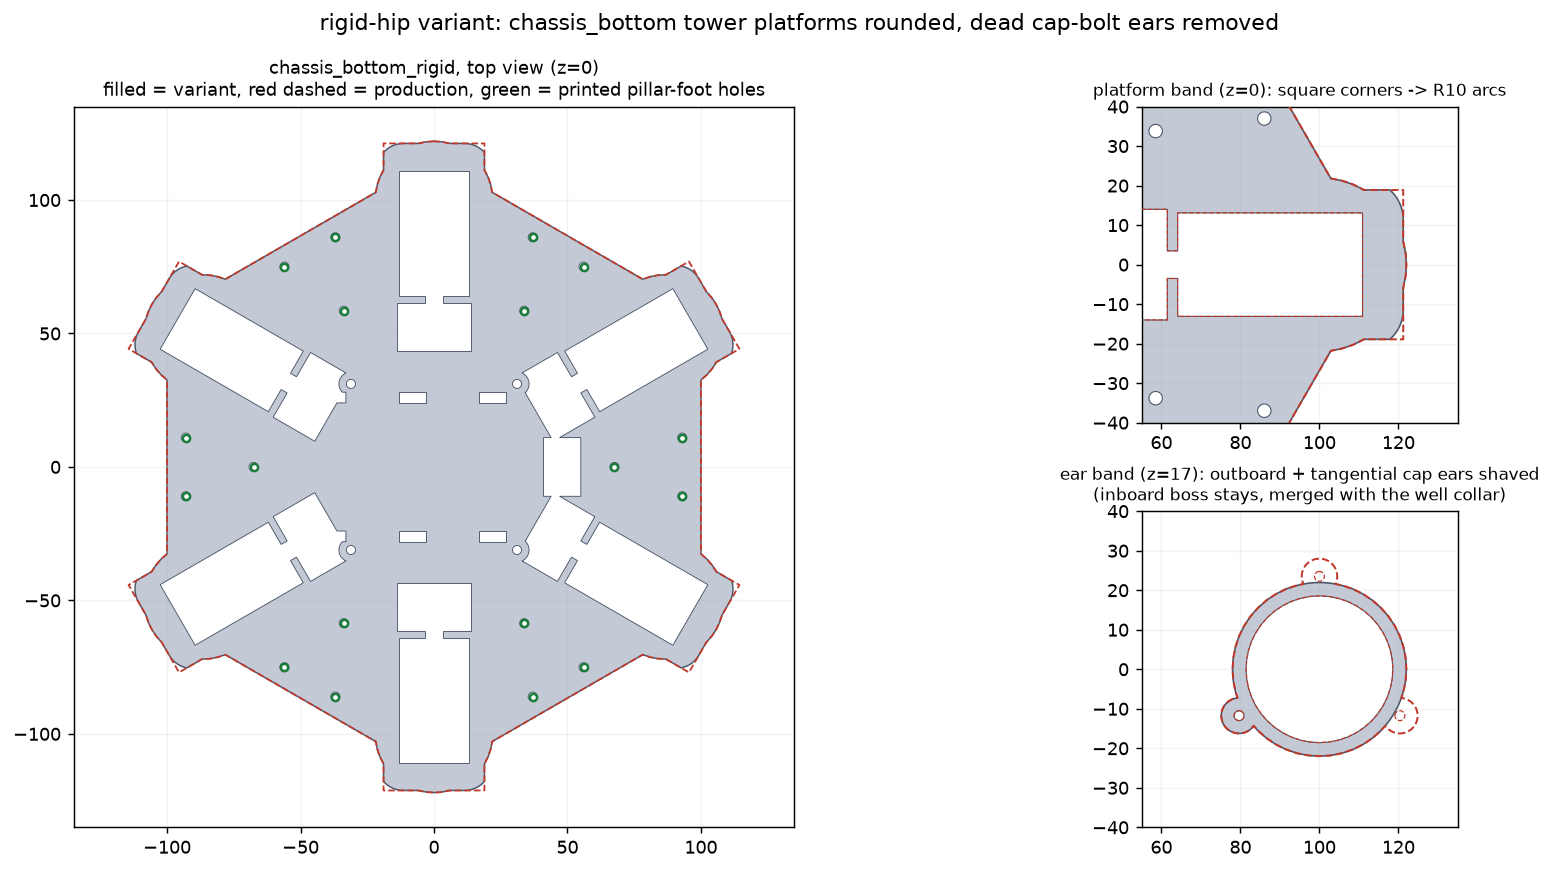
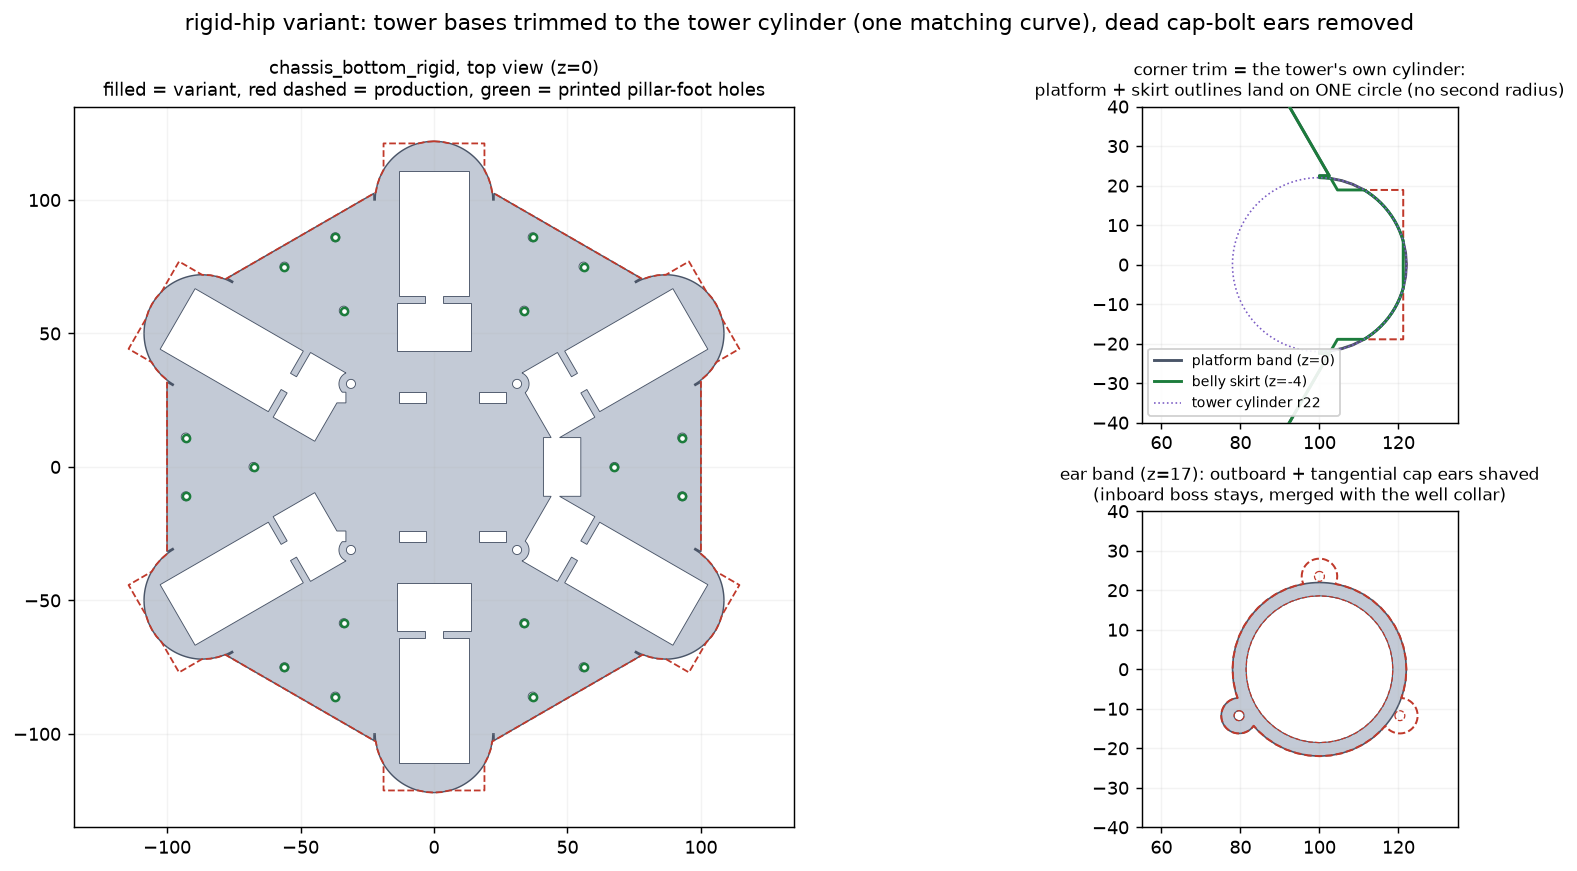
rigid-hip: trim tower platforms to the tower cylinder so all corner curves match
The R10 corner round stacked three different arcs at each corner
(platform arc, skirt chord, tower crown) -- rejected by the user. The
corners are now trimmed to the tower's own r22 cylinder, continuing the
bulge curve production already has through the platform band down the
belly skirt: one curve at every height.

diff --git a/hexapod_walker/prototype_sts3215/concepts/rigid_hip/make_rigid_hip_variant.py b/hexapod_walker/prototype_sts3215/concepts/rigid_hip/make_rigid_hip_variant.py
@@ -43,10 +43,12 @@ pair.  This variant closes the loop from the TOP:
     extended DOWN as a Phi 29 seat ring to the relocated bottom race
     (see BEARING COUNT).  All other interfaces untouched.
   * ``chassis_bottom_rigid`` (x1) -- the production chassis with the
-    six tower platforms' square corners rounded R 10 (user, Aug 24),
-    the dead cap-bolt ear lugs shaved (outboard + tangential; the
-    inboard one stays merged with the well collar), and the 18
-    pillar-foot holes printed in.  See the CHB_* constant block.
+    six tower platforms trimmed to the tower's own Phi 44 cylinder
+    (user, Aug 24: corners rounded; rev 2: all corner curves must
+    match -- so the tower curve is now the ONLY curve), the dead
+    cap-bolt ear lugs shaved (outboard + tangential; the inboard one
+    stays merged with the well collar), and the 18 pillar-foot holes
+    printed in.  See the CHB_* constant block.
     Every functional surface (pocket, seat, walls, trays, slots) is
     production geometry.
   * ``centre_wago_block`` -- the pillars claim the corner Wago trays,
@@ -238,20 +240,29 @@ HUB_RING_Z0 = hp.YAW_BEARING_LOWER_TOP_Z  # 7.5 -- relocated race TOP
 HUB_RING_Z1 = hp.YAW_BEARING_UPPER_TOP_Z + 1.5   # 16 -- well into the uflange
 
 # CHASSIS VARIANT (user, Aug 24: "round the corners on the chassis
-# bottom below where the bearings go").  Each production yaw tower
-# stands on a SQUARE outboard platform (leg-frame face x 121.2;
-# half-width 21.25 above the sheet, 18.9 for the z -6..-2 belly
-# skirt; top face z ~6.22) whose corners poke 8.4 mm diagonally past
-# the Phi 44 tower.  This variant rounds them with R 10 arcs tangent
-# to both faces -- the arc never comes closer than ~0.4 mm to the
-# tower wall across the whole cut band (checked numerically when
-# this was designed and re-asserted by check_chassis_variant), so
-# the bearing pocket, well walls and rim are untouched.  With the
+# bottom below where the bearings go"; rev 2 same day: "I don't like
+# the multiple curves here, they should all match").  Each production
+# yaw tower stands on a SQUARE outboard platform (leg-frame face
+# x 121.2; half-width 21.25 above the sheet, 18.9 for the z -6..-2
+# belly skirt; top face z 6.25) whose corners poked 8.4 mm diagonally
+# past the Phi 44 tower.  Rev 1 rounded them with a bolt-on R 10
+# corner radius, which stacked THREE different arcs at each corner
+# (platform R 10 arc, the shallower chord the same cylinder cut into
+# the narrower skirt, and the r 22 tower crown right above) -- the
+# user rejected the mismatch.  Now the corners are simply TRIMMED TO
+# THE TOWER'S OWN CYLINDER (r 22.02 about the yaw axis; 0.02 proud so
+# the boolean never grazes the tower's own tessellation).  In
+# production the tower already bulges through the platform band (its
+# r 22 circle crosses the +-21.25 side faces at x 100+-5.9), so the
+# trim just continues that same curve around the end and down the
+# skirt: every band shows ONE curve -- the tower's -- and the
+# side-face junction is the crease production already has.  The
+# bearing pocket, well walls and rim are untouched.  With the
 # yaw_bearing_cap deleted, the three M3 cap-bolt ear lugs per tower
 # (PCD 47, z 6.25..19.75) are dead weight:
-#   * the OUTBOARD ear (coxa az 330) sat ON the corner being rounded
-#     and would overhang the new arc -- shaved flush to the tower
-#     cylinder (0.05 bite into the tower skin for clean topology);
+#   * the OUTBOARD ear (coxa az 330) sat ON the trimmed corner --
+#     shaved flush to the tower cylinder (0.05 bite into the tower
+#     skin for clean topology);
 #   * the TANGENTIAL ear (az 90) poked 6.8 mm past the platform
 #     silhouette -- shaved flush to the rim-wall face (y 20.45);
 #   * the INBOARD ear (az 210) merges into the well-mouth collar and
@@ -260,11 +271,9 @@ HUB_RING_Z1 = hp.YAW_BEARING_UPPER_TOP_Z + 1.5   # 16 -- well into the uflange
 # Since the chassis is a variant print now anyway, the 18 pillar-
 # foot bolt holes are PRINTED IN (the foot-as-drill-jig bench mod
 # remains the documented path for modifying a STOCK chassis print).
-CHB_ROUND_R = 10.0            # platform corner rounding radius
-CHB_FACE_X = 121.2            # platform outboard face (measured)
-CHB_HALF_Y = 21.4             # platform half-width envelope (21.25+lead-in)
-CHB_PLATE_TOP = 6.2           # platform top face (measured 6.20..6.25)
+CHB_PLATE_TOP = 6.25          # platform top face = ear-lug bottom (measured)
 CHB_TOWER_R = hp.YAW_BEARING_OD / 2.0 + hp.YAW_TOWER_WALL   # 22.0
+CHB_TRIM_R = CHB_TOWER_R + 0.02   # corner trim = the tower cylinder itself
 CHB_KEEP_R = CHB_TOWER_R - 0.05   # ear cuts bite 0.05 into the tower skin
 CHB_EAR_R = 6.6               # covers the Phi 9 ear boss with margin
 CHB_WALL_FACE_Y = 20.45       # rim-wall outer face (20.33 measured) + cl
@@ -632,12 +641,14 @@ def make_chassis_bottom_rigid() -> trimesh.Trimesh:
     """The production chassis_bottom with the CHB_* variant edits (see
     the constant block above):
 
-      * PLATFORM CORNERS: the square outboard platform under each yaw
-        tower is rounded with an R 10 arc tangent to its outboard face
-        (x 121.2) and side faces (y +-21.4 envelope), through the full
-        platform + belly-skirt band (z -7..6.5).  The arc stays clear
-        of the Phi 44 tower wall at every z, so pocket/walls/rim keep
-        production geometry.
+      * PLATFORM CORNERS: everything outboard of the hex edge
+        (leg-frame x > 100) between the belly (z -6.5) and the
+        platform top (z 6.25) is trimmed to the tower's own cylinder
+        (r 22.02 about the yaw axis).  The square platform and skirt
+        corners disappear and the whole tower base reads as ONE
+        cylinder from belly to bearing pocket -- no second corner
+        radius anywhere.  The trim is 0.02 proud of the tower wall,
+        so pocket/walls/rim keep production geometry.
       * DEAD EARS: the outboard (az 330) cap-bolt ear is shaved flush
         to the tower cylinder, the tangential (az 90) ear flush to the
         rim-wall face.  The inboard (az 210) ear stays merged with the
@@ -654,14 +665,11 @@ def make_chassis_bottom_rigid() -> trimesh.Trimesh:
     for i in range(6):
         R = _rotz((i + 0.5) * np.pi / 3.0)                   # leg frame
         leg_cuts = []
-        for sy in (+1.0, -1.0):                              # (a) corners
-            ccx = CHB_FACE_X - CHB_ROUND_R
-            ccy = sy * (CHB_HALF_Y - CHB_ROUND_R)
-            box = _box((CHB_ROUND_R + 2.0, CHB_ROUND_R + 2.0, 13.5),
-                       (ccx + (CHB_ROUND_R + 2.0) / 2.0,
-                        ccy + sy * (CHB_ROUND_R + 2.0) / 2.0, -0.25))
-            leg_cuts.append(_diff(box, [_cyl_z(CHB_ROUND_R, -8.0, 7.5,
-                                               x=ccx, y=ccy, sections=96)]))
+        box = _box((23.5, 45.0, CHB_PLATE_TOP + 6.5),        # (a) corner trim:
+                   (APOTHEM + 23.5 / 2.0, 0.0,               # x 100..123.5,
+                    (CHB_PLATE_TOP - 6.5) / 2.0))            # z -6.5..6.25
+        leg_cuts.append(_diff(box, [_cyl_z(CHB_TRIM_R, -8.0, 7.5,
+                                           x=APOTHEM, y=0.0, sections=192)]))
         keep = _cyl_z(CHB_KEEP_R, CHB_PLATE_TOP - 1.0, 21.6,
                       x=APOTHEM, y=0.0, sections=128)
         ear330 = _cyl_z(CHB_EAR_R, CHB_PLATE_TOP, 20.6,      # (b) outboard
@@ -822,9 +830,9 @@ MESH_FILES = {
     # VARIANT reprints of production parts: the coxa gets its cradle
     # corners rounded to the 38.2 mm yaw envelope + a Phi 29 hub seat
     # ring down to the tower-seated bottom race (make_coxa_link_rigid);
-    # the chassis gets its tower platforms' corners rounded, the dead
-    # cap-bolt ears shaved and the pillar-foot holes printed in
-    # (make_chassis_bottom_rigid).
+    # the chassis gets its tower platforms trimmed to the tower's own
+    # cylinder, the dead cap-bolt ears shaved and the pillar-foot
+    # holes printed in (make_chassis_bottom_rigid).
     "coxa_link": (make_coxa_link_rigid, "coxa_link_rigid.stl"),
     "chassis_bottom": (make_chassis_bottom_rigid, "chassis_bottom_rigid.stl"),
     # Unchanged production prints (print from the MAIN stl_prototype/).
@@ -1003,29 +1011,34 @@ def check_bottom_joint(meshes: dict[str, trimesh.Trimesh]) -> None:
 
 
 def check_chassis_variant(meshes: dict[str, trimesh.Trimesh]) -> None:
-    """chassis_bottom_rigid edits landed as designed: platform corners
-    actually rounded (nothing left on the outboard face past the
-    tangency band), the R 10 arcs never bit the tower wall, only the
-    intentional az-210 boss survives past the tower cylinder above the
-    platform, and the printed foot holes are open exactly where the
-    pillar feet expect them.  (Pocket seat, tray socket and retainer
-    territory are re-verified against THIS mesh by the other checks.)"""
+    """chassis_bottom_rigid edits landed as designed: below the platform
+    top NOTHING outboard of the hex edge survives past the tower
+    cylinder (the corner trim leaves one matching curve), the trim
+    never bit the tower wall, only the intentional az-210 boss survives
+    past the tower cylinder above the platform, and the printed foot
+    holes are open exactly where the pillar feet expect them.  (Pocket
+    seat, tray socket and retainer territory are re-verified against
+    THIS mesh by the other checks.)"""
     cb = meshes["chassis_bottom"]
     assert cb.body_count == 1, "chassis variant not a single body"
     v = trimesh.transform_points(cb.vertices, _rotz(-0.5 * np.pi / 3.0))
     near = v[(np.abs(v[:, 1]) < 40.0) & (v[:, 0] > 55.0)]
-
-    # corners gone: on the outboard face only the tangency band remains
-    # (R 10 arc re-crosses x face-0.05 at |y| ~ 12.4), plus the tower
-    # crown (|y| < 3) poking 0.8 past the face
-    face = near[(near[:, 0] > CHB_FACE_X - 0.05) & (near[:, 2] < CHB_PLATE_TOP)]
-    y_max = float(np.abs(face[:, 1]).max())
-    assert y_max <= CHB_HALF_Y - CHB_ROUND_R + 1.2, \
-        f"platform face still reaches |y| {y_max:.2f} -- corner not rounded"
-
-    # tower wall unbitten by the corner arcs: full Phi 44 ring solid at
-    # the pocket band
     ax = APOTHEM
+
+    # corner trim: in the platform + skirt band, every vertex outboard
+    # of the hex edge (within the platform's own half-width -- the
+    # diagonal well walls at |y| ~ 25 are untouched production) lies
+    # on/inside the tower cylinder: the tower's curve is the ONLY
+    # silhouette curve out there
+    band = near[(near[:, 2] > -6.4) & (near[:, 2] < CHB_PLATE_TOP - 0.01)
+                & (near[:, 0] > ax + 0.1) & (np.abs(near[:, 1]) < 21.4)]
+    r_out = np.hypot(band[:, 0] - ax, band[:, 1])
+    r_max = float(r_out.max())
+    assert r_max <= CHB_TRIM_R + 0.03, \
+        f"corner material at r {r_max:.2f} > tower cylinder -- trim missed"
+
+    # tower wall unbitten by the corner trim: full Phi 44 ring solid at
+    # the pocket band
     ang = np.linspace(0.0, 2.0 * np.pi, 24, endpoint=False)
     ring = np.column_stack([ax + (CHB_TOWER_R - 0.6) * np.cos(ang),
                             (CHB_TOWER_R - 0.6) * np.sin(ang),
@@ -1061,8 +1074,8 @@ def check_chassis_variant(meshes: dict[str, trimesh.Trimesh]) -> None:
         "a printed foot hole is blocked"
     assert cb.contains(np.array(beside)).all(), \
         "sheet not solid beside a printed foot hole"
-    print(f"  chassis variant: 12 platform corners rounded R {CHB_ROUND_R:g} "
-          f"(face band |y| <= {y_max:.1f}), az-330/90 ears shaved, "
+    print(f"  chassis variant: tower bases trimmed to one r {CHB_TRIM_R:g} "
+          f"cylinder (outboard max r {r_max:.2f}), az-330/90 ears shaved, "
           f"18 foot holes printed in, {abs(cb.volume) / 1000.0:.0f} cm3")
 
 
@@ -1428,7 +1441,8 @@ def build_scene(meshes, femur_up_limit: float) -> dict:
             "transform": _mat16(M)})
         return iid
 
-    inst("chassis_bottom", "chassis_bottom RIGID (rounded, NEW)", np.eye(4))
+    inst("chassis_bottom", "chassis_bottom RIGID (tower-trimmed, NEW)",
+         np.eye(4))
     inst("chassis_top_rigid", "chassis_top_rigid FRAME (NEW)", np.eye(4))
     inst("top_hatch_rigid", "top_hatch (NEW, removable)", np.eye(4))
     for az in range(0, 360, 60):
@@ -1565,7 +1579,7 @@ def render_preview(meshes) -> None:
         ("yaw_bearing_upper", T["coxa"] @ _trans([0.0, 0.0, YAWBR_DROP]),
          "#303030", "bottom 6805-2RS (tower-seated, cap DELETED)"),
         ("chassis_bottom", np.eye(4), "#8b93a6",
-         "chassis_bottom RIGID (rounded, NEW)"),
+         "chassis_bottom RIGID (tower-trimmed, NEW)"),
         ("servo_body", T["hip_cap"], "#c9a227", "hip servo"),
     ]
     fig, ax = plt.subplots(figsize=(10.5, 6.2), dpi=130)

diff --git a/hexapod_walker/prototype_sts3215/concepts/rigid_hip/README.md b/hexapod_walker/prototype_sts3215/concepts/rigid_hip/README.md
@@ -34,10 +34,11 @@ servo — is a cantilever.  This variant closes the structure from the top:
   the hub flange extended down as a Φ29 seat ring to the relocated
   bottom bearing (see below).
 * **`chassis_bottom_rigid`** (print 1): the production chassis with the
-  six tower platforms' square corners rounded to R10 arcs, the dead
-  cap-bolt ear lugs shaved off, and the 18 pillar-foot bolt holes
-  printed in (see below).  Every functional surface — bearing pocket,
-  seat, well walls, Wago trays, strap slots — is production geometry.
+  six square tower platforms trimmed to the tower's own Φ44 cylinder —
+  one matching curve from belly to bearing pocket — the dead cap-bolt
+  ear lugs shaved off, and the 18 pillar-foot bolt holes printed in
+  (see below).  Every functional surface — bearing pocket, seat, well
+  walls, Wago trays, strap slots — is production geometry.
 * **`centre_wago_block`** (print 1): the pillars claim the corner Wago
   trays, so the power tree consolidates — 4× 5-port 221-415 (two per
   net, jumpered) in one press-fit block at the chassis centre under
@@ -90,26 +91,35 @@ in the bottom tower, one at the top plate).
 Each production yaw tower stands on a square outboard platform that
 juts past the hex edge; its corners poke 8.4 mm diagonally past the
 Φ44 tower.  Rounding them (user, Aug 24) makes `chassis_bottom_rigid`
-(see `chassis_corner_round.png` for before/after):
+(see `chassis_corner_round.png` for before/after).  A first revision
+used a bolt-on R10 corner radius, which stacked three different arcs
+at each corner (platform arc, the shallower chord the same cut left on
+the narrower belly skirt, and the tower crown right above) — rejected:
+*the curves must all match*.  Now:
 
-* **Platform corners → R10 arcs**, tangent to the outboard face
-  (x 121.2 in the leg frame) and side faces, cut through the full
-  platform + belly-skirt band.  The arc never comes closer than
-  ~0.4 mm to the tower wall, asserted on every rebuild — the bearing
-  pocket, seat, well walls and rim are untouched production geometry.
+* **Corners trimmed to the tower's own cylinder** (r 22.02 about the
+  yaw axis, 0.02 proud of the Φ44 wall so the cut never grazes it).
+  In production the tower already bulges through the platform band —
+  its circle crosses the ±21.25 side faces at x 100±5.9 — so the trim
+  just continues that same curve around the end and down the belly
+  skirt.  Every height shows one curve, the tower's, and the side-face
+  junction is the crease production already had.  The bearing pocket,
+  seat, well walls and rim are untouched production geometry
+  (asserted on every rebuild).
 * **Dead cap-bolt ears shaved**: with the `yaw_bearing_cap` deleted,
   the three M3 ear lugs per tower had no job.  The outboard one sat
-  exactly on the corner being rounded (it would overhang the new arc)
-  and is shaved flush to the tower cylinder; the tangential one poked
-  6.8 mm past the platform silhouette and is shaved flush to the
-  rim-wall face.  The inboard one stays — it merges into the
-  well-mouth collar, is invisible under the deck, and removing it
-  risks gouging the collar for zero visual gain.
+  exactly on the trimmed corner and is shaved flush to the tower
+  cylinder; the tangential one poked 6.8 mm past the platform
+  silhouette and is shaved flush to the rim-wall face.  The inboard
+  one stays — it merges into the well-mouth collar, is invisible under
+  the deck, and removing it risks gouging the collar for zero visual
+  gain.
 * **18 pillar-foot holes printed in** (same constants as the pillar
   feet, aligned by construction) — no bench drilling on a fresh build.
-* Net: −9 cm³ (326 vs 335).  **On an existing stock chassis print**
-  all of this is a bench mod instead: saw/sand the 12 corners and the
-  ear lugs, drill the foot holes using the pillar feet as jigs.
+* Net: −15 cm³ (320 vs 335).  **On an existing stock chassis print**
+  all of this is a bench mod instead: saw/sand the corners back to the
+  tower barrel and shave the ear lugs, drill the foot holes using the
+  pillar feet as jigs.
 
 ## Stack (world Z, chassis_bottom sheet mid-plane = 0)
 
@@ -289,10 +299,11 @@ variation only moves parts that stay outboard/below the plate.
   yaw envelope the plain columns rely on nor reaches the tower-seated
   race (same filament as 6 production coxas; the old prints become
   spares)
-* **1× `chassis_bottom_rigid` reprint** (~326 cm³, same class as the
-  production chassis print) — rounded tower platforms, shaved ears,
-  printed foot holes.  A stock chassis print can be bench-modded
-  instead (saw/sand corners + drill), skipping the reprint entirely
+* **1× `chassis_bottom_rigid` reprint** (~320 cm³, same class as the
+  production chassis print) — tower platforms trimmed to the tower
+  cylinder, shaved ears, printed foot holes.  A stock chassis print
+  can be bench-modded instead (saw/sand corners + drill), skipping the
+  reprint entirely
 * recommended: 12× M3 heat-set inserts (McMaster 94459A130) for the hip
   cap pilots, +12 for the pillar-top pilots — see "Disassembly & service"
 
@@ -391,7 +402,7 @@ serviceable option.
   Φ29 seat ring prints as a horizontal cylinder band exactly like the
   uflange above it (the coxa prints on its side).
 * `chassis_bottom_rigid`: print exactly like the production chassis
-  (belly up, same supports).  The rounded corners, shaved ears and
+  (belly up, same supports).  The tower-cylinder trim, shaved ears and
   foot holes change nothing about the print strategy.
 * `centre_wago_block`: floor down — flat print, no supports; walls are
   plain vertical extrusions like the production trays.
@@ -422,9 +433,10 @@ npx buildviz register hexapod_walker/prototype_sts3215/concepts/rigid_hip \
 Checks run at build time: watertightness, seated-stack placement, the
 bottom joint (race on the tower seat, coxa/race contact = boss press
 only, seat ring lands on the race top, leg + bearing lift-out path),
-the chassis variant (corners actually rounded, arcs never bit the
-tower wall, only the intentional inboard boss survives, foot holes
-open where the pillar feet expect them), full 360° yaw sweep vs the
+the chassis variant (nothing outboard survives past the tower
+cylinder, the trim never bit the tower wall, only the intentional
+inboard boss survives, foot holes open where the pillar feet expect
+them), full 360° yaw sweep vs the
 plate, straight-down plate descent over all six bearings, pillar
 clearances (seated robot, ±45° operating yaw with margin, and an
 informational full hand-spin scan) and the femur pitch×yaw contact
